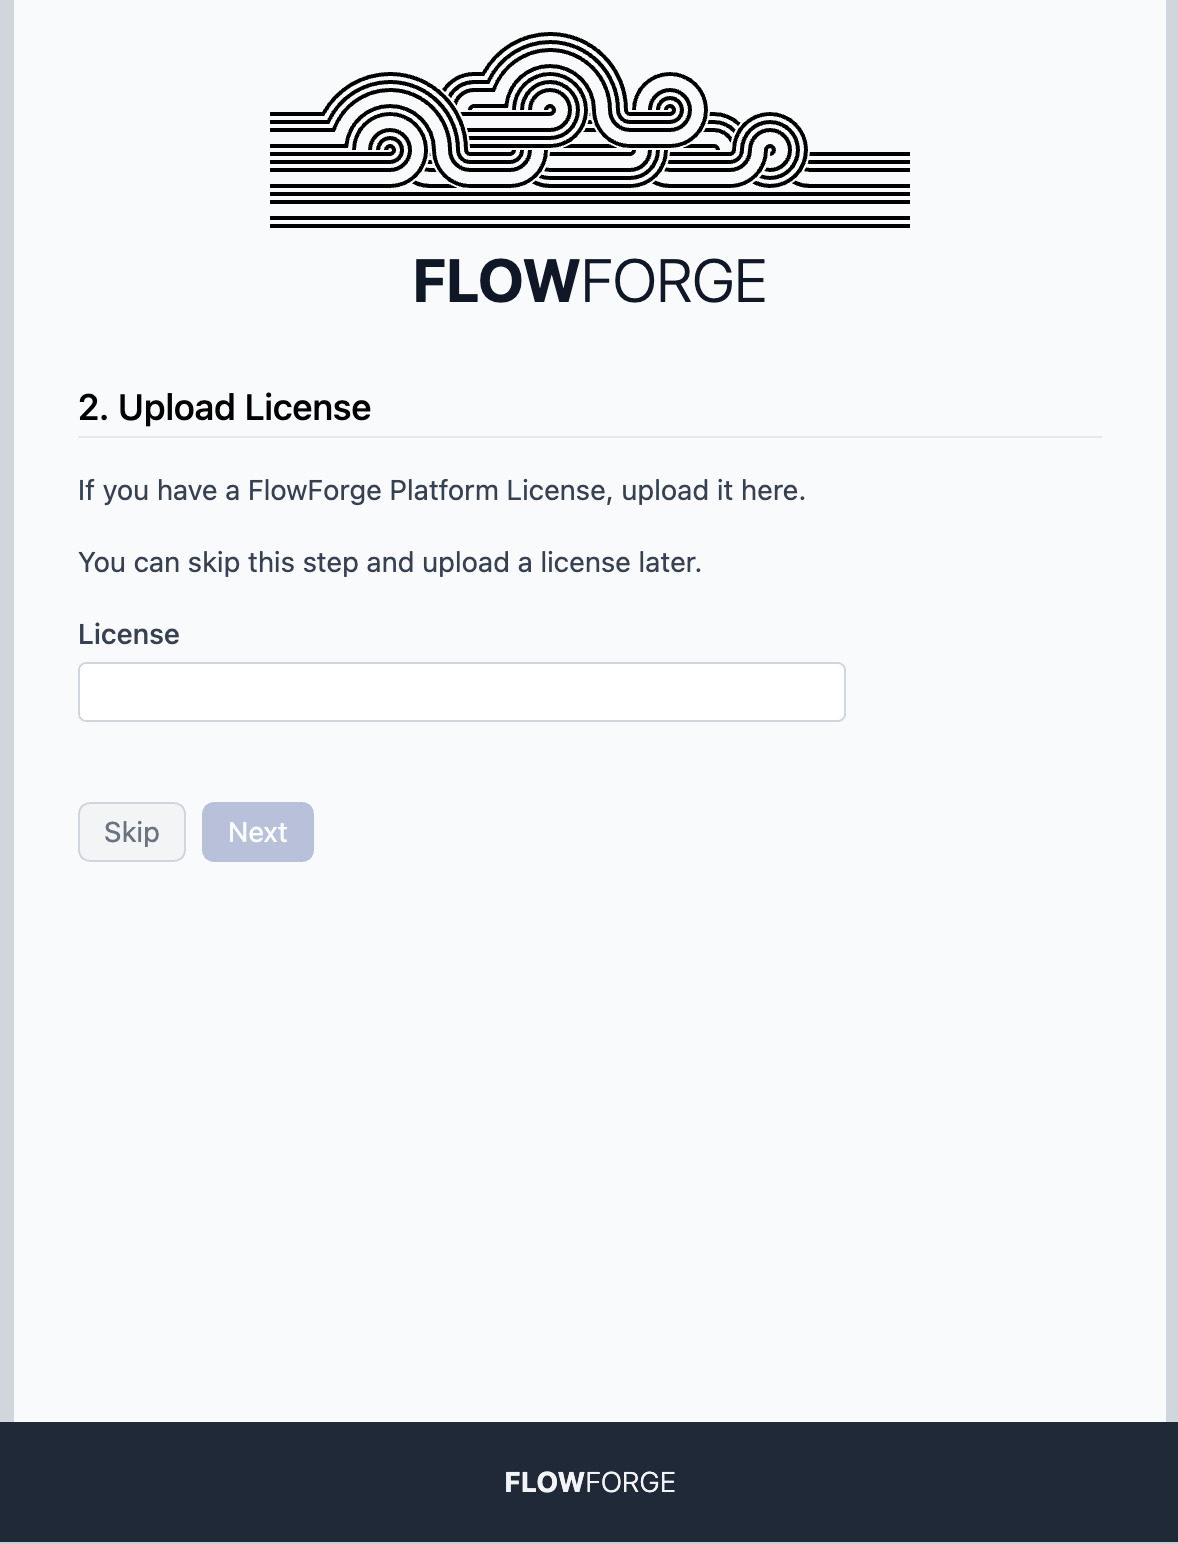
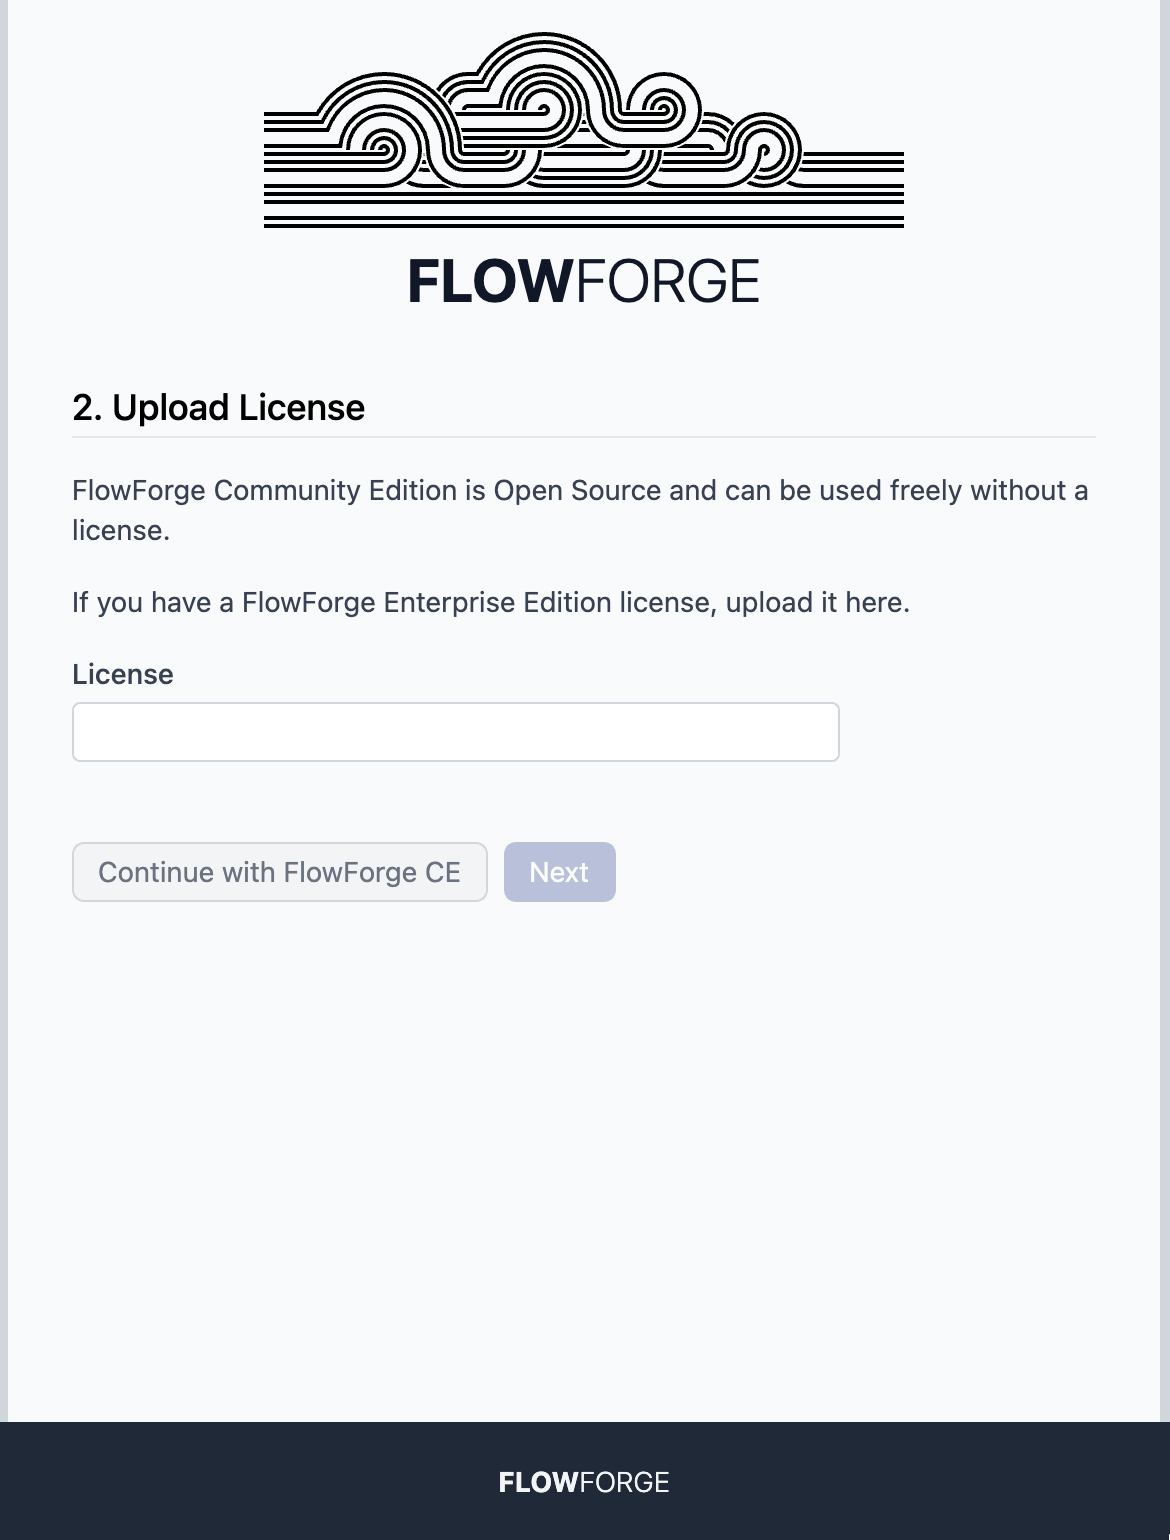
Update wording around license handling

diff --git a/frontend/src/pages/setup/License.vue b/frontend/src/pages/setup/License.vue
@@ -2,12 +2,12 @@
     <form class="px-4 sm:px-6 lg:px-8 mt-8 space-y-4  pt-4">
         <FormHeading>2. Upload License</FormHeading>
         <template v-if="!state.license">
-            <p class="text-sm text-gray-700">If you have a FlowForge Platform License, upload it here.</p>
-            <p class="text-sm text-gray-700">You can skip this step and upload a license later.</p>
+            <p class="text-sm text-gray-700">FlowForge Community Edition is Open Source and can be used freely without a license.</p>
+            <p class="text-sm text-gray-700">If you have a FlowForge Enterprise Edition license, upload it here.</p>
             <FormRow v-model="input.license" :error="errors.license">License</FormRow>
             <div class="space-x-2">
                 <button type="button" @click="next" class="forge-button-secondary mt-6">
-                    Skip
+                    Continue with FlowForge CE
                 </button>
                 <button type="button" :disabled="!formValid" @click="addLicense" class="forge-button mt-6">
                     Next
@@ -15,7 +15,7 @@
             </div>
         </template>
         <template v-else>
-            <p class="text-gray-700 mt-10 text-center">You have already applied a license.</p>
+            <p class="text-gray-700 mt-10 text-center">You have already applied a FlowForge Enterprise Edition license.</p>
             <p class="text-gray-700 mt-10 text-center">To apply a different license, complete this setup then login as the administrator and go to Admin Settings.</p>
             <button type="button" @click="next" class="forge-button mt-6">
                 Next

diff --git a/frontend/src/pages/admin/Settings/License.vue b/frontend/src/pages/admin/Settings/License.vue
@@ -4,6 +4,7 @@
             <FormHeading>License</FormHeading>
             <template v-if="license">
                 <table>
+                    <tr><td class="font-medium p-2 pr-4 align-top">Type</td><td class="p-2">FlowForge Enterprise Edition</td></tr>
                     <tr><td class="font-medium p-2 pr-4 align-top">Organisation</td><td class="p-2">{{license.organisation}}</td></tr>
                     <tr><td class="font-medium p-2 pr-4 align-top">Tier</td><td class="p-2">{{license.tier}}</td></tr>
                     <tr><td class="font-medium p-2 pr-4 align-top">Expires</td><td class="p-2">{{license.expires}}<br><span class="text-xs">{{license.expiresAt}}</span></td></tr>
@@ -11,7 +12,9 @@
                 <details><pre class="break-words">{{license}}</pre></details>
             </template>
             <template v-else>
-                No license applied
+                <table>
+                    <tr><td class="font-medium p-2 pr-4 align-top">Type</td><td class="p-2">FlowForge Community Edition</td></tr>
+                </table>
             </template>
             <div class="space-x-4 whitespace-nowrap">
                 <button type="button" class="forge-button forge-button-small" @click="editLicense">Update license</button>

diff --git a/frontend/src/pages/admin/routes.js b/frontend/src/pages/admin/routes.js
@@ -36,7 +36,7 @@ export default [
                 path: 'settings', component: AdminSettings, redirect: `/admin/settings/general`,
                 children: [
                     { path: 'general', component: AdminSettingsGeneral },
-                    { path: 'permissions', component: AdminSettingsPermissions },
+                    // { path: 'permissions', component: AdminSettingsPermissions },
                     { path: 'license', component: AdminSettingsLicense },
                     { path: 'email', component: AdminSettingsEmail },
                 ]

diff --git a/frontend/src/pages/admin/Settings/index.vue b/frontend/src/pages/admin/Settings/index.vue
@@ -13,7 +13,7 @@ import SectionSideMenu from '@/components/SectionSideMenu'
 
 const sideNavigation = [
     { name: "General", path: "./general" },
-    { name: "Permissions", path: "./permissions" },
+    // { name: "Permissions", path: "./permissions" },
     { name: "License", path: "./license" },
     { name: "Email", path: "./email" },
 ]

diff --git a/docs/install/first-run.md b/docs/install/first-run.md
@@ -20,13 +20,9 @@ provide tools to manage passwords outside of the platform in a future release.
 
 ## 2. Upload a license
 
-The core of the platform is Open Source and can be used freely without a license.
+FlowForge Community Edition is Open Source and can be used freely without a license.
 
-In the future, optional features will be available that are not part of the Open
-Source code base. Those features may require a license in order to enable and
-use in production.
-
-For now, you can skip this stage
+If you have a FlowForge Enterprise Edition license you can upload it here.
 
 <img src="images/setup-03-license.png" width=300 />
 
